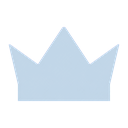
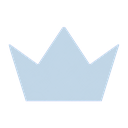
feat: move ranking crown beside song title
- Redraw the ranking crown so its sides fall straight to the bottom without a base step.
- Place the ranking button after the last line of the song title, with the crown bottom on the title baseline.
- When the crown does not fit at the end of that line, move it to the start of the next line and push the category row down by one line.
- Hide the ranking button when no song is selected.

Changed region(s): [[0.7812, 0.4375, 0.9062, 0.8125], [0.0938, 0.4375, 0.2188, 0.8125], [0.9062, 0.375, 0.9375, 0.4375]]

diff --git a/src/game/songSelect/SongSelectScene.ts b/src/game/songSelect/SongSelectScene.ts
@@ -83,6 +83,7 @@ import {
   ROW_X_PX,
   ROW_Y_PX,
   TITLE_MAX_LINES,
+  TITLE_MAX_WIDTH_PX,
   TITLE_Y_PX,
   UNSELECTED_WEIGHT,
   ZODIAC_AREA_GAP_PX,
@@ -293,20 +294,22 @@ const LEVEL_SLIDER_HIT = {
 const ROW_TOP_RANK_RIGHT_X_PX = 690;
 const ROW_TOP_RANK_NUMBER_SIZE_PX = 34;
 const ROW_TITLE_TOP_RANK_GAP_PX = 24;
-// RANKING 은 재킷 그림을 가리지 않도록 재킷 오른쪽 위 바깥에 두고, 아이콘 오른쪽 끝을 재킷 오른쪽 끝에 맞춘다.
-const RANKING_BUTTON_CENTER_Y_PX = 191;
 const RANKING_ICON_TEXTURE_KEY = 'ui:song-select-ranking';
 const RANKING_ICON_PATH = '/assets/ui/songSelect/ranking.png';
 const RANKING_ICON_SIZE_PX = 48;
+const RANKING_ICON_GAP_PX = 16;
+const RANKING_TRAILING_WIDTH_PX = RANKING_ICON_GAP_PX + RANKING_ICON_SIZE_PX;
+// 왕관 밑면은 48px 아이콘 가운데보다 14px 아래에 있다.
+const RANKING_ICON_BOTTOM_PX = 14;
 const LEVEL_RESET_ICON_SIZE_PX = 24;
 // 레일 오른쪽 끝 손잡이를 누르는 자리와 겹치지 않게 여백을 줄인다.
 const LEVEL_RESET_PADDING_X_PX = 6;
 const LEVEL_RESET_OFFSET_X_PX = 16;
 // 리셋 아이콘 원호의 밑면은 24px 아이콘 가운데보다 8px 아래에 있다.
 const LEVEL_RESET_ARC_BOTTOM_PX = 8;
-/** 아이콘 PNG 의 투명 여백만큼 더 밀어 획 끝을 재킷 오른쪽 선에 맞춘다. */
+/** 아이콘 PNG 의 투명 여백만큼 당겨 획 시작을 곡 이름 끝에서 간격만큼 띄운다. */
 const RANKING_ICON_MARGIN_X_PX = 4;
-/** quiet 버튼의 안쪽 가로 여백만큼 밀어 내용을 재킷 오른쪽 선에 맞춘다. */
+/** quiet 버튼의 안쪽 가로 여백만큼 당겨 내용을 곡 이름 끝 간격에 맞춘다. */
 const QUIET_BUTTON_PADDING_X_PX = 16;
 
 interface SongRow {
@@ -602,10 +605,38 @@ export class SongSelectScene extends Phaser.Scene {
                 const record = getSelectedRecordView(state);
                 const level = getSelectedLevel(state);
                 fitSongTitle(view.titleText, song.title);
+                const titleLines = view.titleText.getWrappedText().slice(0, TITLE_MAX_LINES);
+                const lastTitleLine = titleLines[titleLines.length - 1] ?? '';
+                const titleMetrics = view.titleText.getTextMetrics();
+                const titleLineHeightPx = titleMetrics.fontSize + view.titleText.lineSpacing;
+                const titleLeftXPx = view.titleText.x + (view.titleText.padding.left ?? 0);
+                const lastTitleLineEndXPx =
+                  titleLeftXPx + view.titleText.context.measureText(lastTitleLine.trimEnd()).width;
+                const isRankingWrapped =
+                  lastTitleLineEndXPx + RANKING_TRAILING_WIDTH_PX > INFO_X_PX + TITLE_MAX_WIDTH_PX;
+                const rankingLineIndex = titleLines.length - 1 + (isRankingWrapped ? 1 : 0);
+                view.rankingButton
+                  .setVisible(true)
+                  .setPosition(
+                    (isRankingWrapped ? titleLeftXPx : lastTitleLineEndXPx + RANKING_ICON_GAP_PX) -
+                      QUIET_BUTTON_PADDING_X_PX -
+                      RANKING_ICON_MARGIN_X_PX,
+                    view.titleText.y +
+                      (view.titleText.padding.top ?? 0) +
+                      titleMetrics.ascent +
+                      titleLineHeightPx * rankingLineIndex -
+                      RANKING_ICON_BOTTOM_PX -
+                      view.rankingButton.height / 2,
+                  );
                 setTextColor(view.categoryText, CATEGORY_COLORS[song.category]);
                 view.categoryText
                   .setText(song.category.toUpperCase())
-                  .setY(view.titleText.y + view.titleText.height + CATEGORY_GAP_PX);
+                  .setY(
+                    view.titleText.y +
+                      view.titleText.height +
+                      (isRankingWrapped ? titleLineHeightPx : 0) +
+                      CATEGORY_GAP_PX,
+                  );
                 renderLaneMarks(view.laneMarks, view.categoryText, state.laneCount);
                 const laneText = view.laneMarks.text;
                 const dividerXPx = laneText.x + laneText.width + INFO_DIVIDER_GAP_PX;
@@ -666,6 +697,7 @@ export class SongSelectScene extends Phaser.Scene {
               } else {
                 view.titleText.setText('');
                 view.categoryText.setText('');
+                view.rankingButton.setVisible(false);
                 renderLaneMarks(view.laneMarks, view.categoryText, null);
                 view.levelDivider.setVisible(false);
                 view.levelLabel.setVisible(false);
@@ -1299,14 +1331,7 @@ export class SongSelectScene extends Phaser.Scene {
         sizePx: RANKING_ICON_SIZE_PX,
       });
     }
-    return button.setPosition(
-      DETAIL_X_PX +
-        JACKET_SIZE_PX +
-        QUIET_BUTTON_PADDING_X_PX +
-        RANKING_ICON_MARGIN_X_PX -
-        button.width,
-      RANKING_BUTTON_CENTER_Y_PX - button.height / 2,
-    );
+    return button;
   }
 
   // 둥근 획의 밑면을 레벨 레일에 맞춘다.

diff --git a/src/game/ui/view/widgets/songDetailLayout.ts b/src/game/ui/view/widgets/songDetailLayout.ts
@@ -39,7 +39,7 @@ export const INFO_X_PX = DETAIL_X_PX + JACKET_SIZE_PX + 48;
 export const TITLE_Y_PX = 272;
 // 오른쪽 여백을 목록 패널 왼쪽 여백과 같게 두어 한쪽으로 쏠려 보이지 않게 한다.
 export const DETAIL_RIGHT_X_PX = GAME_WIDTH - LIST_PANEL.xPx;
-const TITLE_MAX_WIDTH_PX = DETAIL_RIGHT_X_PX - INFO_X_PX;
+export const TITLE_MAX_WIDTH_PX = DETAIL_RIGHT_X_PX - INFO_X_PX;
 // 자켓 옆 칸이 좁아 긴 제목은 이 크기까지 줄인 뒤에도 넘치면 줄을 넘긴다.
 const TITLE_MIN_SIZE_PX = 40;
 const TITLE_SHRINK_STEP_PX = 4;
